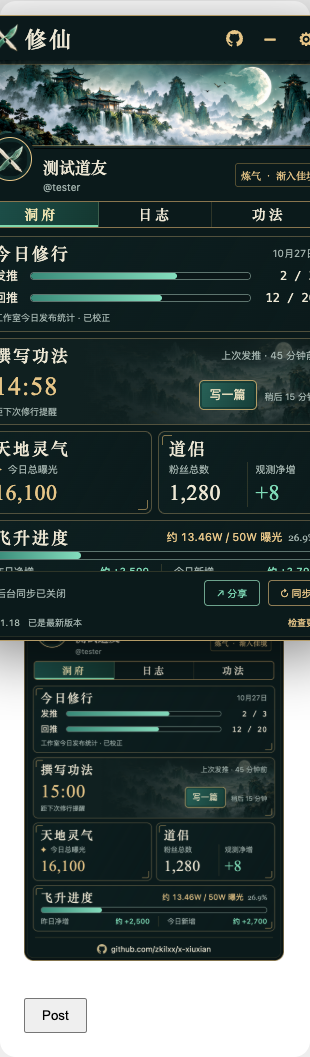
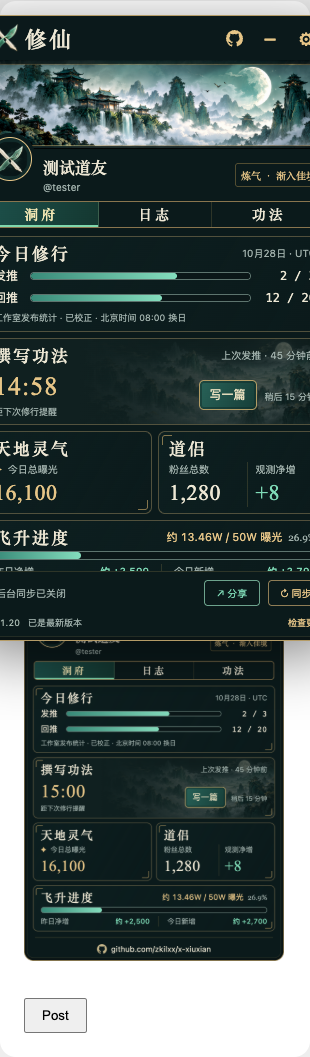
fix: recover blank panel frames and stale extension connections

diff --git a/extension/content-bundle.js b/extension/content-bundle.js
@@ -241,16 +241,54 @@ globalThis.XianFeedback={replyPlus};
 (() => {
   'use strict';
   if (document.getElementById('xian-extension-host')) return;
-  const channel=crypto.randomUUID();
-  let frameReady=false;
+  let channel=crypto.randomUUID();
+  const extensionOrigin=chrome.runtime.getURL('').replace(/\/$/,''),panelURL=chrome.runtime.getURL('panel.html');
+  let frameReady=false,shadow,fallback,fallbackTitle,fallbackDetail,reconnectButton,healthTimer,retryTimer,waiting,retries=0,failed=false,disconnected=false;
   let host, frame, profile=null, lastHandle='', latest=null, drag=null, pending=[], captureTimer, refreshTimer;
   let panelHeight=720;
   let position={x:Math.max(12,innerWidth-390),y:80,collapsed:false};
-  const ask=async message=>{const r=await chrome.runtime.sendMessage(message);if(!r?.ok)throw new Error(r?.error||'扩展连接已断开，请刷新 X 页面。');return r.data;};
-  const send=message=>frameReady&&frame?.contentWindow?.postMessage({source:'xian-parent-v1',channel,...message},chrome.runtime.getURL('').slice(0,-1));
-  const showError=e=>send({type:'error',error:e.message||String(e)});
+  const runtimeAlive=()=>{try{return !!chrome.runtime?.id;}catch{return false;}};
+  const ask=async message=>{try{if(!runtimeAlive())throw new Error('Extension context invalidated');const r=await chrome.runtime.sendMessage(message);if(!r?.ok)throw new Error(r?.error||'扩展连接已断开，请刷新 X 页面。');return r.data;}catch(error){if(!runtimeAlive()||/Extension context invalidated/i.test(error.message))disconnect();throw error;}};
+  const send=message=>frameReady&&frame?.contentWindow?.postMessage({source:'xian-parent-v1',channel,...message},extensionOrigin);
+  const showError=e=>{if(!disconnected)send({type:'error',error:e.message||String(e)});};
+  function connectionState(status,title,detail){
+    if(!host||!fallback)return;host.dataset.xianStatus=status;fallbackTitle.textContent=title;fallbackDetail.textContent=detail;fallback.hidden=false;if(frame)frame.style.visibility='hidden';
+    reconnectButton.textContent=position.collapsed?'𝕏':disconnected?'刷新 X 页面':'重新连接';reconnectButton.title=title+'：'+detail;
+  }
+  function disconnect(){
+    disconnected=true;frameReady=false;waiting=null;clearInterval(healthTimer);clearInterval(refreshTimer);clearTimeout(retryTimer);
+    connectionState('updated','扩展连接已断开','扩展可能已重载或更新，请刷新 X 页面以恢复。');
+  }
+  function syncFrame(){send({type:'collapsed',value:position.collapsed});if(latest)send({type:'state',data:latest});else send({type:'locked'});}
+  function probe(){
+    if(!frame||waiting||disconnected||failed)return;waiting={id:crypto.randomUUID(),at:Date.now()};
+    // The probe contains no account data; it can reach an empty frame after a failed navigation.
+    frame.contentWindow?.postMessage({source:'xian-parent-v1',channel,type:'ping',id:waiting.id},'*');
+  }
+  function recover(){
+    if(retryTimer||disconnected)return;frameReady=false;waiting=null;
+    if(++retries>3){failed=true;connectionState('failed','洞府暂时无法加载','自动重连未成功，可点击重新连接；数据仍保存在本机。');return;}
+    connectionState('reconnecting','正在重新连接洞府','面板加载中，修行数据不会被清空。');
+    retryTimer=setTimeout(()=>{retryTimer=null;connectPanel();},1000*2**(retries-1));
+  }
+  function connectPanel(){
+    if(!runtimeAlive()){disconnect();return;}frameReady=false;waiting=null;channel=crypto.randomUUID();
+    connectionState(retries?'reconnecting':'loading','正在加载洞府','正在确认面板连接…');
+    const old=frame;frame=document.createElement('iframe');const current=frame;
+    frame.title='X 修仙 · 创作者洞府';frame.allow='autoplay';frame.setAttribute('scrolling','no');
+    Object.assign(frame.style,{position:'absolute',inset:'0',width:'100%',height:'100%',border:'0',display:'block',colorScheme:'dark',background:'#0b1a1b',visibility:'hidden'});
+    frame.addEventListener('load',()=>{if(current!==frame||failed||disconnected)return;frameReady=false;waiting=null;connectionState('loading','正在加载洞府','正在确认面板连接…');probe();});
+    frame.addEventListener('error',()=>{if(current===frame)recover();});
+    frame.src=panelURL+'#'+channel;shadow.prepend(frame);old?.remove();probe();
+  }
+  function checkPanel(){
+    if(!runtimeAlive()){disconnect();return;}if(document.hidden||!host)return;
+    if(!host.isConnected&&document.body){document.body.append(host);connectPanel();return;}
+    if(failed||retryTimer)return;if(waiting){if(Date.now()-waiting.at>8000)recover();}else probe();
+  }
+  function startHealth(){clearInterval(healthTimer);if(!disconnected)healthTimer=setInterval(checkPanel,2000);}
   function clamp() {
-    if(!host)return;const w=position.collapsed?56:Math.min(372,innerWidth-20),h=position.collapsed?56:Math.min(panelHeight,innerHeight-24);
+    if(!host)return;if(fallback){fallback.dataset.collapsed=String(position.collapsed);reconnectButton.textContent=position.collapsed?'𝕏':disconnected?'刷新 X 页面':'重新连接';}const w=position.collapsed?56:Math.min(372,innerWidth-20),h=position.collapsed?56:Math.min(panelHeight,innerHeight-24);
     position.x=Math.max(10,Math.min(position.x,innerWidth-w-10));position.y=Math.max(10,Math.min(position.y,innerHeight-h-10));
     Object.assign(host.style,{left:position.x+'px',top:position.y+'px',width:w+'px',height:h+'px'});
     send({type:'collapsed',value:position.collapsed});
@@ -306,7 +344,8 @@ globalThis.XianFeedback={replyPlus};
     try{const data=await ask({type:'snapshot',handle:h});if(lastHandle===h){latest=data;send({type:'state',data});}}catch(e){showError(e);}
   }
   window.addEventListener('message',event=>{
-    const observerOrigin=event.origin===location.origin||event.origin===chrome.runtime.getURL('').replace(/\/$/,'')||event.origin==='null';
+    if(!runtimeAlive()){disconnect();return;}
+    const observerOrigin=event.origin===location.origin||event.origin===extensionOrigin||event.origin==='null';
     if(observerOrigin&&event.data?.source==='xian-studio-raw-v1'&&profile&&location.pathname.startsWith('/i/account_analytics')){ask({type:'studioRaw',handle:profile.handle,raw:event.data.raw}).then(data=>{latest=data;send({type:'state',data});}).catch(showError);return;}
     if(observerOrigin&&event.data?.source==='xian-studio-v1'&&profile&&location.pathname.startsWith('/i/account_analytics')){ask({type:'studio',handle:profile.handle,rows:event.data.rows}).then(data=>{latest=data;send({type:'state',data});}).catch(showError);return;}
     if(observerOrigin&&event.data?.source==='xian-created-v1'&&profile){const t=event.data.value;if(t?.author===profile.handle&&t.source==='published'){schedule({users:[],tweets:[t]});if(t.reply)globalThis.XianFeedback.replyPlus(t.id);}return;}
@@ -314,9 +353,13 @@ globalThis.XianFeedback={replyPlus};
     if(observerOrigin && event.data?.source==='xian-observer-v1'){
       if(profile&&event.data.payload&&Array.isArray(event.data.payload.tweets)&&Array.isArray(event.data.payload.users))schedule(event.data.payload);return;
     }
-    if(!frame||(event.source!==null&&event.source!==frame.contentWindow)||(![chrome.runtime.getURL('').replace(/\/$/,''),'null'].includes(event.origin))||event.data?.source!=='xian-panel-v1'||event.data.channel!==channel)return;
+    if(!frame||(event.source!==null&&event.source!==frame.contentWindow)||(![extensionOrigin,'null'].includes(event.origin))||event.data?.source!=='xian-panel-v1'||event.data.channel!==channel)return;
     const m=event.data;
-    if(m.type==='ready'){frameReady=true;send({type:'collapsed',value:position.collapsed});if(latest)send({type:'state',data:latest});else send({type:'locked'});return;}
+    if(m.type==='ready'){frameReady=true;syncFrame();probe();return;}
+    if(m.type==='pong'&&waiting?.id===m.id){
+      waiting=null;if(!m.painted){recover();return;}const needsSync=!frameReady;frameReady=true;retries=0;failed=false;clearTimeout(retryTimer);retryTimer=null;
+      host.dataset.xianStatus='ready';fallback.hidden=true;frame.style.visibility='visible';if(needsSync)syncFrame();return;
+    }
     if(m.type==='drag-start'){drag={x:position.x,y:position.y,screenX:m.screenX,screenY:m.screenY};return;}
     if(m.type==='drag-move'&&drag){position.x=drag.x+m.screenX-drag.screenX;position.y=drag.y+m.screenY-drag.screenY;clamp();return;}
     if(m.type==='drag-end'){drag=null;ask({type:'position',value:position}).catch(showError);return;}
@@ -336,16 +379,28 @@ globalThis.XianFeedback={replyPlus};
   async function mount(){
     if(!document.body)return setTimeout(mount,100);
     if(location.hash==='#xian-background'){await identify();let timer=setInterval(()=>{identify();readReward();readProfile();if(location.pathname.startsWith('/i/account_analytics')){if(profile)ask({type:'diagnostic',handle:profile.handle,value:{operation:'studio-page',shape:[document.readyState,document.title,'primary='+!!document.querySelector('[data-testid=primaryColumn]')],resources:performance.getEntriesByType('resource').map(e=>{try{const u=new URL(e.name);return ['https://x.com','https://api.x.com'].includes(u.origin)&&(/\/i\/api\//.test(u.pathname)||u.origin==='https://api.x.com')&&!/grok|jwt|token|chat|message/i.test(u.pathname)?u.pathname:null;}catch{return null;}}).filter(Boolean).slice(-30)}}).catch(()=>{});}},1500);setTimeout(()=>clearInterval(timer),65000);return;}
-    host=document.createElement('div');host.id='xian-extension-host';Object.assign(host.style,{position:'fixed',zIndex:'2147483600',colorScheme:'dark',border:'0',borderRadius:'15px',overflow:'hidden',boxShadow:'0 14px 60px #0007'});
-    const shadow=host.attachShadow({mode:'closed'});frame=document.createElement('iframe');frame.src=chrome.runtime.getURL('panel.html')+'#'+channel;frame.title='X 修仙 · 创作者洞府';frame.allow='autoplay';frame.setAttribute('scrolling','no');frame.addEventListener('load',()=>{frameReady=true;send({type:'collapsed',value:position.collapsed});if(latest)send({type:'state',data:latest});});Object.assign(frame.style,{width:'100%',height:'100%',border:'0',display:'block',colorScheme:'dark'});shadow.append(frame);document.body.append(host);
+    host=document.createElement('div');host.id='xian-extension-host';Object.assign(host.style,{position:'fixed',zIndex:'2147483600',colorScheme:'dark',border:'0',borderRadius:'15px',overflow:'hidden',background:'#0b1a1b',boxShadow:'0 14px 60px #0007'});
+    shadow=host.attachShadow({mode:'closed'});
+    const style=document.createElement('style');style.textContent=`#connection{position:absolute;inset:0;box-sizing:border-box;display:flex;flex-direction:column;justify-content:center;align-items:center;gap:14px;padding:24px;background:#0b1a1b;border:1px solid #b59c67;border-radius:14px;color:#ede7d4;font:12px/1.6 -apple-system,BlinkMacSystemFont,"PingFang SC",sans-serif;text-align:center}#connection[hidden]{display:none}.mark{font:38px Georgia,serif;color:#7fdbb7}.detail{color:#a0b0ab;margin:0}button{font:inherit;cursor:pointer;border:1px solid #89754e;border-radius:5px;background:#173e34;color:#e6c587;padding:6px 14px}#connection[data-collapsed="true"]{padding:0;gap:0}#connection[data-collapsed="true"] .copy{display:none}#connection[data-collapsed="true"] button{width:54px;height:54px;border:0;border-radius:13px;padding:0;color:#7fdbb7;font:30px Georgia,serif}`;shadow.append(style);
+    fallback=document.createElement('div');fallback.id='connection';fallback.setAttribute('role','status');fallback.dataset.collapsed=String(position.collapsed);
+    const mark=document.createElement('span');mark.className='mark copy';mark.textContent='𝕏';fallbackTitle=document.createElement('strong');fallbackTitle.className='copy';fallbackDetail=document.createElement('p');fallbackDetail.className='detail copy';
+    reconnectButton=document.createElement('button');reconnectButton.type='button';reconnectButton.setAttribute('aria-label','恢复 X 修仙面板');reconnectButton.onclick=()=>{if(disconnected||!runtimeAlive()){location.reload();return;}retries=0;failed=false;clearTimeout(retryTimer);retryTimer=null;connectPanel();};
+    fallback.append(mark,fallbackTitle,fallbackDetail,reconnectButton);shadow.append(fallback);document.body.append(host);clamp();connectPanel();startHealth();
     try{position={...position,...await ask({type:'getPosition'})};}catch(e){showError(e);}clamp();await identify();if(profile&&latest?.settings.autoReward)ask({type:'scanStudio',handle:profile.handle}).catch(()=>{});
     // A light observer catches SPA account changes; a timer ensures midnight resets even on an idle page.
     let debounce;new MutationObserver(()=>{clearTimeout(debounce);debounce=setTimeout(()=>{identify();readReward();},400);}).observe(document.body,{subtree:true,childList:true});
+    startRefresh();
+  }
+  function startRefresh(){
+    clearInterval(refreshTimer);if(disconnected)return;
     refreshTimer=setInterval(()=>{identify().then(refresh);readReward();readProfile();if(profile)ask({type:'diagnostic',handle:profile.handle,value:{resources:performance.getEntriesByType('resource').map(e=>{try{const u=new URL(e.name);return u.origin===location.origin&&u.pathname.includes('/i/api/')?u.pathname.split('/').pop():null;}catch{return null;}}).filter(Boolean).slice(-15)}}).catch(()=>{});if(profile&&latest?.settings.autoReward&&(!latest.reward||Date.now()-latest.reward.at>300000))ask({type:'scanStudio',handle:profile.handle}).catch(()=>{});},15000);
   }
   chrome.storage.onChanged.addListener((changes,area)=>{if(area==='local'&&profile&&changes['account:'+profile.handle])refresh();});
   chrome.runtime.onMessage.addListener(m=>{if(m.type==='resize'){panelHeight=Math.max(300,Math.min(720,Math.ceil(Number(m.height)||720)));clamp();return;}
     if(m.type==='attention'){if(position.collapsed){position.collapsed=false;clamp();}return;}
     if(m.type==='toggle'){position.collapsed=!position.collapsed;clamp();ask({type:'position',value:position}).catch(showError);}});
-  addEventListener('resize',clamp);addEventListener('pagehide',()=>{clearInterval(refreshTimer);clearTimeout(captureTimer);});mount();
+  addEventListener('resize',clamp);
+  addEventListener('pagehide',()=>{clearInterval(refreshTimer);clearInterval(healthTimer);clearTimeout(captureTimer);});
+  addEventListener('pageshow',e=>{if(e.persisted&&host){waiting=null;startRefresh();startHealth();checkPanel();refresh();}});
+  document.addEventListener('visibilitychange',()=>{if(!document.hidden&&host){waiting=null;checkPanel();refresh();}});mount();
 })();

diff --git a/extension/content.js b/extension/content.js
@@ -1,16 +1,54 @@
 (() => {
   'use strict';
   if (document.getElementById('xian-extension-host')) return;
-  const channel=crypto.randomUUID();
-  let frameReady=false;
+  let channel=crypto.randomUUID();
+  const extensionOrigin=chrome.runtime.getURL('').replace(/\/$/,''),panelURL=chrome.runtime.getURL('panel.html');
+  let frameReady=false,shadow,fallback,fallbackTitle,fallbackDetail,reconnectButton,healthTimer,retryTimer,waiting,retries=0,failed=false,disconnected=false;
   let host, frame, profile=null, lastHandle='', latest=null, drag=null, pending=[], captureTimer, refreshTimer;
   let panelHeight=720;
   let position={x:Math.max(12,innerWidth-390),y:80,collapsed:false};
-  const ask=async message=>{const r=await chrome.runtime.sendMessage(message);if(!r?.ok)throw new Error(r?.error||'扩展连接已断开，请刷新 X 页面。');return r.data;};
-  const send=message=>frameReady&&frame?.contentWindow?.postMessage({source:'xian-parent-v1',channel,...message},chrome.runtime.getURL('').slice(0,-1));
-  const showError=e=>send({type:'error',error:e.message||String(e)});
+  const runtimeAlive=()=>{try{return !!chrome.runtime?.id;}catch{return false;}};
+  const ask=async message=>{try{if(!runtimeAlive())throw new Error('Extension context invalidated');const r=await chrome.runtime.sendMessage(message);if(!r?.ok)throw new Error(r?.error||'扩展连接已断开，请刷新 X 页面。');return r.data;}catch(error){if(!runtimeAlive()||/Extension context invalidated/i.test(error.message))disconnect();throw error;}};
+  const send=message=>frameReady&&frame?.contentWindow?.postMessage({source:'xian-parent-v1',channel,...message},extensionOrigin);
+  const showError=e=>{if(!disconnected)send({type:'error',error:e.message||String(e)});};
+  function connectionState(status,title,detail){
+    if(!host||!fallback)return;host.dataset.xianStatus=status;fallbackTitle.textContent=title;fallbackDetail.textContent=detail;fallback.hidden=false;if(frame)frame.style.visibility='hidden';
+    reconnectButton.textContent=position.collapsed?'𝕏':disconnected?'刷新 X 页面':'重新连接';reconnectButton.title=title+'：'+detail;
+  }
+  function disconnect(){
+    disconnected=true;frameReady=false;waiting=null;clearInterval(healthTimer);clearInterval(refreshTimer);clearTimeout(retryTimer);
+    connectionState('updated','扩展连接已断开','扩展可能已重载或更新，请刷新 X 页面以恢复。');
+  }
+  function syncFrame(){send({type:'collapsed',value:position.collapsed});if(latest)send({type:'state',data:latest});else send({type:'locked'});}
+  function probe(){
+    if(!frame||waiting||disconnected||failed)return;waiting={id:crypto.randomUUID(),at:Date.now()};
+    // The probe contains no account data; it can reach an empty frame after a failed navigation.
+    frame.contentWindow?.postMessage({source:'xian-parent-v1',channel,type:'ping',id:waiting.id},'*');
+  }
+  function recover(){
+    if(retryTimer||disconnected)return;frameReady=false;waiting=null;
+    if(++retries>3){failed=true;connectionState('failed','洞府暂时无法加载','自动重连未成功，可点击重新连接；数据仍保存在本机。');return;}
+    connectionState('reconnecting','正在重新连接洞府','面板加载中，修行数据不会被清空。');
+    retryTimer=setTimeout(()=>{retryTimer=null;connectPanel();},1000*2**(retries-1));
+  }
+  function connectPanel(){
+    if(!runtimeAlive()){disconnect();return;}frameReady=false;waiting=null;channel=crypto.randomUUID();
+    connectionState(retries?'reconnecting':'loading','正在加载洞府','正在确认面板连接…');
+    const old=frame;frame=document.createElement('iframe');const current=frame;
+    frame.title='X 修仙 · 创作者洞府';frame.allow='autoplay';frame.setAttribute('scrolling','no');
+    Object.assign(frame.style,{position:'absolute',inset:'0',width:'100%',height:'100%',border:'0',display:'block',colorScheme:'dark',background:'#0b1a1b',visibility:'hidden'});
+    frame.addEventListener('load',()=>{if(current!==frame||failed||disconnected)return;frameReady=false;waiting=null;connectionState('loading','正在加载洞府','正在确认面板连接…');probe();});
+    frame.addEventListener('error',()=>{if(current===frame)recover();});
+    frame.src=panelURL+'#'+channel;shadow.prepend(frame);old?.remove();probe();
+  }
+  function checkPanel(){
+    if(!runtimeAlive()){disconnect();return;}if(document.hidden||!host)return;
+    if(!host.isConnected&&document.body){document.body.append(host);connectPanel();return;}
+    if(failed||retryTimer)return;if(waiting){if(Date.now()-waiting.at>8000)recover();}else probe();
+  }
+  function startHealth(){clearInterval(healthTimer);if(!disconnected)healthTimer=setInterval(checkPanel,2000);}
   function clamp() {
-    if(!host)return;const w=position.collapsed?56:Math.min(372,innerWidth-20),h=position.collapsed?56:Math.min(panelHeight,innerHeight-24);
+    if(!host)return;if(fallback){fallback.dataset.collapsed=String(position.collapsed);reconnectButton.textContent=position.collapsed?'𝕏':disconnected?'刷新 X 页面':'重新连接';}const w=position.collapsed?56:Math.min(372,innerWidth-20),h=position.collapsed?56:Math.min(panelHeight,innerHeight-24);
     position.x=Math.max(10,Math.min(position.x,innerWidth-w-10));position.y=Math.max(10,Math.min(position.y,innerHeight-h-10));
     Object.assign(host.style,{left:position.x+'px',top:position.y+'px',width:w+'px',height:h+'px'});
     send({type:'collapsed',value:position.collapsed});
@@ -66,7 +104,8 @@
     try{const data=await ask({type:'snapshot',handle:h});if(lastHandle===h){latest=data;send({type:'state',data});}}catch(e){showError(e);}
   }
   window.addEventListener('message',event=>{
-    const observerOrigin=event.origin===location.origin||event.origin===chrome.runtime.getURL('').replace(/\/$/,'')||event.origin==='null';
+    if(!runtimeAlive()){disconnect();return;}
+    const observerOrigin=event.origin===location.origin||event.origin===extensionOrigin||event.origin==='null';
     if(observerOrigin&&event.data?.source==='xian-studio-raw-v1'&&profile&&location.pathname.startsWith('/i/account_analytics')){ask({type:'studioRaw',handle:profile.handle,raw:event.data.raw}).then(data=>{latest=data;send({type:'state',data});}).catch(showError);return;}
     if(observerOrigin&&event.data?.source==='xian-studio-v1'&&profile&&location.pathname.startsWith('/i/account_analytics')){ask({type:'studio',handle:profile.handle,rows:event.data.rows}).then(data=>{latest=data;send({type:'state',data});}).catch(showError);return;}
     if(observerOrigin&&event.data?.source==='xian-created-v1'&&profile){const t=event.data.value;if(t?.author===profile.handle&&t.source==='published'){schedule({users:[],tweets:[t]});if(t.reply)globalThis.XianFeedback.replyPlus(t.id);}return;}
@@ -74,9 +113,13 @@
     if(observerOrigin && event.data?.source==='xian-observer-v1'){
       if(profile&&event.data.payload&&Array.isArray(event.data.payload.tweets)&&Array.isArray(event.data.payload.users))schedule(event.data.payload);return;
     }
-    if(!frame||(event.source!==null&&event.source!==frame.contentWindow)||(![chrome.runtime.getURL('').replace(/\/$/,''),'null'].includes(event.origin))||event.data?.source!=='xian-panel-v1'||event.data.channel!==channel)return;
+    if(!frame||(event.source!==null&&event.source!==frame.contentWindow)||(![extensionOrigin,'null'].includes(event.origin))||event.data?.source!=='xian-panel-v1'||event.data.channel!==channel)return;
     const m=event.data;
-    if(m.type==='ready'){frameReady=true;send({type:'collapsed',value:position.collapsed});if(latest)send({type:'state',data:latest});else send({type:'locked'});return;}
+    if(m.type==='ready'){frameReady=true;syncFrame();probe();return;}
+    if(m.type==='pong'&&waiting?.id===m.id){
+      waiting=null;if(!m.painted){recover();return;}const needsSync=!frameReady;frameReady=true;retries=0;failed=false;clearTimeout(retryTimer);retryTimer=null;
+      host.dataset.xianStatus='ready';fallback.hidden=true;frame.style.visibility='visible';if(needsSync)syncFrame();return;
+    }
     if(m.type==='drag-start'){drag={x:position.x,y:position.y,screenX:m.screenX,screenY:m.screenY};return;}
     if(m.type==='drag-move'&&drag){position.x=drag.x+m.screenX-drag.screenX;position.y=drag.y+m.screenY-drag.screenY;clamp();return;}
     if(m.type==='drag-end'){drag=null;ask({type:'position',value:position}).catch(showError);return;}
@@ -96,16 +139,28 @@
   async function mount(){
     if(!document.body)return setTimeout(mount,100);
     if(location.hash==='#xian-background'){await identify();let timer=setInterval(()=>{identify();readReward();readProfile();if(location.pathname.startsWith('/i/account_analytics')){if(profile)ask({type:'diagnostic',handle:profile.handle,value:{operation:'studio-page',shape:[document.readyState,document.title,'primary='+!!document.querySelector('[data-testid=primaryColumn]')],resources:performance.getEntriesByType('resource').map(e=>{try{const u=new URL(e.name);return ['https://x.com','https://api.x.com'].includes(u.origin)&&(/\/i\/api\//.test(u.pathname)||u.origin==='https://api.x.com')&&!/grok|jwt|token|chat|message/i.test(u.pathname)?u.pathname:null;}catch{return null;}}).filter(Boolean).slice(-30)}}).catch(()=>{});}},1500);setTimeout(()=>clearInterval(timer),65000);return;}
-    host=document.createElement('div');host.id='xian-extension-host';Object.assign(host.style,{position:'fixed',zIndex:'2147483600',colorScheme:'dark',border:'0',borderRadius:'15px',overflow:'hidden',boxShadow:'0 14px 60px #0007'});
-    const shadow=host.attachShadow({mode:'closed'});frame=document.createElement('iframe');frame.src=chrome.runtime.getURL('panel.html')+'#'+channel;frame.title='X 修仙 · 创作者洞府';frame.allow='autoplay';frame.setAttribute('scrolling','no');frame.addEventListener('load',()=>{frameReady=true;send({type:'collapsed',value:position.collapsed});if(latest)send({type:'state',data:latest});});Object.assign(frame.style,{width:'100%',height:'100%',border:'0',display:'block',colorScheme:'dark'});shadow.append(frame);document.body.append(host);
+    host=document.createElement('div');host.id='xian-extension-host';Object.assign(host.style,{position:'fixed',zIndex:'2147483600',colorScheme:'dark',border:'0',borderRadius:'15px',overflow:'hidden',background:'#0b1a1b',boxShadow:'0 14px 60px #0007'});
+    shadow=host.attachShadow({mode:'closed'});
+    const style=document.createElement('style');style.textContent=`#connection{position:absolute;inset:0;box-sizing:border-box;display:flex;flex-direction:column;justify-content:center;align-items:center;gap:14px;padding:24px;background:#0b1a1b;border:1px solid #b59c67;border-radius:14px;color:#ede7d4;font:12px/1.6 -apple-system,BlinkMacSystemFont,"PingFang SC",sans-serif;text-align:center}#connection[hidden]{display:none}.mark{font:38px Georgia,serif;color:#7fdbb7}.detail{color:#a0b0ab;margin:0}button{font:inherit;cursor:pointer;border:1px solid #89754e;border-radius:5px;background:#173e34;color:#e6c587;padding:6px 14px}#connection[data-collapsed="true"]{padding:0;gap:0}#connection[data-collapsed="true"] .copy{display:none}#connection[data-collapsed="true"] button{width:54px;height:54px;border:0;border-radius:13px;padding:0;color:#7fdbb7;font:30px Georgia,serif}`;shadow.append(style);
+    fallback=document.createElement('div');fallback.id='connection';fallback.setAttribute('role','status');fallback.dataset.collapsed=String(position.collapsed);
+    const mark=document.createElement('span');mark.className='mark copy';mark.textContent='𝕏';fallbackTitle=document.createElement('strong');fallbackTitle.className='copy';fallbackDetail=document.createElement('p');fallbackDetail.className='detail copy';
+    reconnectButton=document.createElement('button');reconnectButton.type='button';reconnectButton.setAttribute('aria-label','恢复 X 修仙面板');reconnectButton.onclick=()=>{if(disconnected||!runtimeAlive()){location.reload();return;}retries=0;failed=false;clearTimeout(retryTimer);retryTimer=null;connectPanel();};
+    fallback.append(mark,fallbackTitle,fallbackDetail,reconnectButton);shadow.append(fallback);document.body.append(host);clamp();connectPanel();startHealth();
     try{position={...position,...await ask({type:'getPosition'})};}catch(e){showError(e);}clamp();await identify();if(profile&&latest?.settings.autoReward)ask({type:'scanStudio',handle:profile.handle}).catch(()=>{});
     // A light observer catches SPA account changes; a timer ensures midnight resets even on an idle page.
     let debounce;new MutationObserver(()=>{clearTimeout(debounce);debounce=setTimeout(()=>{identify();readReward();},400);}).observe(document.body,{subtree:true,childList:true});
+    startRefresh();
+  }
+  function startRefresh(){
+    clearInterval(refreshTimer);if(disconnected)return;
     refreshTimer=setInterval(()=>{identify().then(refresh);readReward();readProfile();if(profile)ask({type:'diagnostic',handle:profile.handle,value:{resources:performance.getEntriesByType('resource').map(e=>{try{const u=new URL(e.name);return u.origin===location.origin&&u.pathname.includes('/i/api/')?u.pathname.split('/').pop():null;}catch{return null;}}).filter(Boolean).slice(-15)}}).catch(()=>{});if(profile&&latest?.settings.autoReward&&(!latest.reward||Date.now()-latest.reward.at>300000))ask({type:'scanStudio',handle:profile.handle}).catch(()=>{});},15000);
   }
   chrome.storage.onChanged.addListener((changes,area)=>{if(area==='local'&&profile&&changes['account:'+profile.handle])refresh();});
   chrome.runtime.onMessage.addListener(m=>{if(m.type==='resize'){panelHeight=Math.max(300,Math.min(720,Math.ceil(Number(m.height)||720)));clamp();return;}
     if(m.type==='attention'){if(position.collapsed){position.collapsed=false;clamp();}return;}
     if(m.type==='toggle'){position.collapsed=!position.collapsed;clamp();ask({type:'position',value:position}).catch(showError);}});
-  addEventListener('resize',clamp);addEventListener('pagehide',()=>{clearInterval(refreshTimer);clearTimeout(captureTimer);});mount();
+  addEventListener('resize',clamp);
+  addEventListener('pagehide',()=>{clearInterval(refreshTimer);clearInterval(healthTimer);clearTimeout(captureTimer);});
+  addEventListener('pageshow',e=>{if(e.persisted&&host){waiting=null;startRefresh();startHealth();checkPanel();refresh();}});
+  document.addEventListener('visibilitychange',()=>{if(!document.hidden&&host){waiting=null;checkPanel();refresh();}});mount();
 })();

diff --git a/extension/panel.html b/extension/panel.html
@@ -20,5 +20,5 @@
 <section id="history" class="view" hidden><div class="heading"><h2>修行日志</h2><button id="export" class="text-button">导出 JSON</button></div><label class="date-filter">查看日期<input id="history-date" type="date"></label><p class="hint">从启用之日起存档 · 无记录日期不会补零</p><div id="history-list" class="history-list"></div><p class="hint">发布和曝光沿用工作室日期；粉丝与飞升净增按本地记录日保存。工作室返回的历史统计可补齐，未返回的时段保留空白。</p></section>
 <section id="settings" class="view" hidden><h2>自定功法</h2><p class="hint">每个账号独立保存，修改后立即生效。</p><form id="settings-form"><label>每日发推目标<input name="posts" type="number" min="1" max="1000" required></label><label>每日回推目标<input name="replies" type="number" min="1" max="10000" required></label><label>发推间隔提醒（分钟）<input name="reminderMinutes" type="number" min="1" max="1440" required></label><label class="check"><input name="reminderEnabled" type="checkbox">开启浏览器修行提醒</label><label class="check"><input name="autoReward" type="checkbox">后台静默同步数据（每 5 分钟）</label><p id="timezone" class="hint">日界线：Asia/Shanghai</p><button class="jade-button" type="submit">保存功法</button></form><div class="setting-note"><p id="followers-hint" class="hint">粉丝净增从今日首次读取开始计算</p><details><summary>查看数据口径</summary><p>发推和回推按工作室日期（UTC）对账；发推为原创与引用发布量之和，回推为自己的回复发布量。发布成功即时记数，每 5 分钟与曝光、粉丝和奖励一起后台同步，用工作室总数校正并补齐其他设备的发布；失败和取消不计。新发布遇到工作室延迟时暂时保留，避免数字立刻回退。天地灵气读取工作室 Account overview 中当天的 Impressions 总曝光，包含认证与未认证用户；工作室没有提供可靠的主推 / 回复曝光拆分，因此只显示总曝光。日期沿用工作室图表的 UTC 日桶，每 5 分钟同步，未读取时保留空白。粉丝净增为今日首次观测后的净变化，无法区分新增和取关。飞升直接读取 X 原创内容奖励页面的近 90 天进度，按最新值减前日最后记录计算每日净增；90 天滚动值含旧曝光到期扣减。页面缩写数值只可计算约数，不代表实际新产生的全部合格曝光。</p><p>发布成功时在后台记录；每 5 分钟由 Chrome 静默读取工作室、奖励页和粉丝资料，临时后台标签不会激活，完成后自动关闭；发推和回复以 X 发布成功的返回记录为准；同一帖子 ID 不重复累加。浏览器运行且 X 登录态有效时可后台同步；已设提醒可由浏览器发出，浏览器关闭时可能延迟。</p></details><h3>飞升规则</h3><p>每日目标是个人计划。X 官方入门门槛包括近 90 天 50 万认证用户主页曝光、500 位认证粉丝；回复曝光不计入。达到这两项也不代表获得收益资格。</p><a href="https://help.x.com/en/using-x/original-content-rewards" target="_blank" rel="noopener">X 官方原创内容奖励说明 ↗</a></div></section>
 <section id="reward" class="view" hidden><h2>记录飞升进境</h2><p class="hint">自动读取失败时，可用官方页面显示的进度校准。手动校准也会触发每日差值记录。</p><form id="reward-form"><label>近 90 天认证用户主页曝光<input name="qualified90d" type="number" min="0" step="1" required></label><label>认证粉丝数量<input name="verifiedFollowers" type="number" min="0" step="1"></label><button class="jade-button" type="submit">保存今日进境</button></form><p class="hint">例如官方显示 133.3K，自动读取会记录为约 133,300，并保存原始显示精度。普通浏览量和全部粉丝总数不可混填。</p></section>
-</main><div id="reminder-alert" class="reminder-alert" role="alertdialog" aria-modal="true" aria-labelledby="reminder-title" hidden><span class="reminder-symbol" aria-hidden="true">✦</span><h2 id="reminder-title">该撰写功法了</h2><p id="reminder-message">修行时间已到，写下你的新想法。</p><a id="reminder-write" class="jade-button" href="https://x.com/compose/post" target="_blank" rel="noopener">去撰写</a><button id="reminder-snooze" class="jade-button">15 分钟后提醒</button><button id="reminder-dismiss" class="text-button">知道了</button></div><footer><span><i id="status-dot"></i><span id="synced">等待账号确认</span></span><div class="footer-actions" role="group" aria-label="洞府操作"><button id="share" type="button" aria-label="分享修行记录到 X" title="将文字数据和面板图片放入 X 编辑栏，由你确认发布" disabled>↗ 分享</button><button id="sync" aria-label="立即同步全部数据">↻ 同步</button></div></footer><div id="update-bar" class="update-bar" aria-label="插件版本与更新"><span id="installed-version">v0.1.19</span><span id="update-status" role="status" aria-live="polite">自动检测更新</span><a id="update-download" target="_blank" rel="noopener noreferrer" hidden>下载新版 ↗</a><button id="update-check" class="text-button" type="button">检查更新</button></div>
+</main><div id="reminder-alert" class="reminder-alert" role="alertdialog" aria-modal="true" aria-labelledby="reminder-title" hidden><span class="reminder-symbol" aria-hidden="true">✦</span><h2 id="reminder-title">该撰写功法了</h2><p id="reminder-message">修行时间已到，写下你的新想法。</p><a id="reminder-write" class="jade-button" href="https://x.com/compose/post" target="_blank" rel="noopener">去撰写</a><button id="reminder-snooze" class="jade-button">15 分钟后提醒</button><button id="reminder-dismiss" class="text-button">知道了</button></div><footer><span><i id="status-dot"></i><span id="synced">等待账号确认</span></span><div class="footer-actions" role="group" aria-label="洞府操作"><button id="share" type="button" aria-label="分享修行记录到 X" title="将文字数据和面板图片放入 X 编辑栏，由你确认发布" disabled>↗ 分享</button><button id="sync" aria-label="立即同步全部数据">↻ 同步</button></div></footer><div id="update-bar" class="update-bar" aria-label="插件版本与更新"><span id="installed-version">v0.1.20</span><span id="update-status" role="status" aria-live="polite">自动检测更新</span><a id="update-download" target="_blank" rel="noopener noreferrer" hidden>下载新版 ↗</a><button id="update-check" class="text-button" type="button">检查更新</button></div>
 </div><script src="core.js"></script><script src="share.js"></script><script src="panel.js"></script></body></html>

diff --git a/extension/panel.js b/extension/panel.js
@@ -15,7 +15,7 @@
     $(id).title=delta==null?`${date||''} 没有飞升进度记录`.trim():track.partial?`${date} 首次观测后净增，非完整全天`:`${date} 最新进度减前一天末次进度（滚动净变化）`;
   }
   let checkingUpdate=false,updateRequested=false;
-  const installedVersion=globalThis.chrome?.runtime?.getManifest?.().version||'0.1.19';
+  const installedVersion=globalThis.chrome?.runtime?.getManifest?.().version||'0.1.20';
   text('installed-version','v'+installedVersion);
   async function checkUpdates(force=false){
     if(checkingUpdate)return;
@@ -106,6 +106,10 @@
   addEventListener('message',e=>{
     if((e.source!==null&&e.source!==parent)||e.data?.source!=='xian-parent-v1'||(channel?e.data.channel!==channel:false)||!(/^https:\/\/(x|twitter)\.com$/.test(e.origin)||/^http:\/\/(localhost|127\.0\.0\.1):\d+$/.test(e.origin)||(channel&&(e.origin==='null'||e.origin===location.origin))))return;
     parentOrigin=e.origin==='null'?null:e.origin;const m=e.data;
+    if(m.type==='ping'){
+      const surface=$('shell').hidden?$('orb'):$('shell');const css=document.querySelector('link[href="panel.css"]');
+      tell({type:'pong',id:m.id,painted:!!css?.sheet&&surface.getClientRects().length>0&&getComputedStyle(surface).backgroundColor!=='rgba(0, 0, 0, 0)'});return;
+    }
     if(m.type==='state')render(m.data);
     else if(m.type==='collapsed'){const wasHidden=$('shell').hidden;$('shell').hidden=m.value;$('orb').hidden=!m.value;if(wasHidden&&!m.value){lastFitHeight=0;fitPanel();checkUpdates();}else if(!m.value&&!updateRequested)checkUpdates();}
     else if(m.type==='locked'){state=null;text('name','静候道友');text('handle','等待 X 登录账号');$('locked').hidden=false;$('avatar').hidden=true;$('avatar').removeAttribute('src');$('avatar-fallback').hidden=false;for(const id of ['total-views','followers','follower-delta'])text(id,'—');text('posts','—');text('replies','—');setProgress('posts-progress',0,3);setProgress('replies-progress',0,20);text('daily-qualified','待读取');text('qualified90','— / 50W 曝光');rewardDelta('reward-yesterday',null);rewardDelta('reward-today',null);text('reward-percent','待读取');$('status-dot').classList.remove('active');text('verified-followers','— / 500');setProgress('reward-progress',0,500000);text('synced','等待账号确认');$('history-list').replaceChildren();select('home');for(const id of ['sync','share','reward-edit','snooze','scan-reward'])if($(id))$(id).disabled=true;timer();}
@@ -125,7 +129,7 @@
   $('reminder-write').onclick=()=>{if(state)state.reminder={...state.reminder,acknowledgedPost:state.lastPost};tell({type:'dismissReminder'});reminderVisible(false,null,0);};
   $('settings-form').onsubmit=e=>{e.preventDefault();if(!state)return notice('请先登录 X 并确认账号。',true);const f=new FormData(e.currentTarget),value={...state.settings};for(const k of ['posts','replies','reminderMinutes','dailyQualifiedGoal'])if(f.has(k))value[k]=Number(f.get(k));value.reminderEnabled=e.currentTarget.elements.reminderEnabled.checked;value.autoReward=e.currentTarget.elements.autoReward.checked;tell({type:'settings',value});};
   $('reward-form').onsubmit=e=>{e.preventDefault();if(!state)return;const f=new FormData(e.currentTarget);const value=Object.fromEntries(['qualified90d','verifiedFollowers'].map(k=>[k,f.get(k)===''?null:Number(f.get(k))]));tell({type:'reward',value});select('home');};
-  $('export').onclick=()=>{if(!state)return;const blob=new Blob([JSON.stringify({app:'X 修仙',version:'0.1.19',exportedAt:new Date().toISOString(),...state},null,2)],{type:'application/json'});const url=URL.createObjectURL(blob);const a=document.createElement('a');a.href=url;a.download=`X修仙-${state.profile.handle}-${state.today.date}.json`;a.click();setTimeout(()=>URL.revokeObjectURL(url),3000);};
+  $('export').onclick=()=>{if(!state)return;const blob=new Blob([JSON.stringify({app:'X 修仙',version:'0.1.20',exportedAt:new Date().toISOString(),...state},null,2)],{type:'application/json'});const url=URL.createObjectURL(blob);const a=document.createElement('a');a.href=url;a.download=`X修仙-${state.profile.handle}-${state.today.date}.json`;a.click();setTimeout(()=>URL.revokeObjectURL(url),3000);};
   function draggable(element,isOrb=false){let start=null,moved=false;element.addEventListener('pointerdown',e=>{if(e.target.closest('button,a')&&!isOrb)return;if(e.button!==0)return;start={x:e.screenX,y:e.screenY};moved=false;element.setPointerCapture(e.pointerId);tell({type:'drag-start',screenX:e.screenX,screenY:e.screenY});});element.addEventListener('pointermove',e=>{if(!start)return;if(Math.abs(e.screenX-start.x)+Math.abs(e.screenY-start.y)>4)moved=true;tell({type:'drag-move',screenX:e.screenX,screenY:e.screenY});});const end=()=>{if(!start)return;start=null;tell({type:'drag-end'});};element.addEventListener('pointerup',()=>{end();if(isOrb&&!moved)tell({type:'toggle'});});element.addEventListener('pointercancel',end);element.addEventListener('lostpointercapture',end);element.addEventListener('keydown',e=>{const d={ArrowLeft:[-10,0],ArrowRight:[10,0],ArrowUp:[0,-10],ArrowDown:[0,10]}[e.key];if(d){e.preventDefault();tell({type:'move-key',dx:d[0],dy:d[1]});}else if(isOrb&&(e.key==='Enter'||e.key===' ')){e.preventDefault();tell({type:'toggle'});}});}
   draggable($('drag'));draggable($('orb'),true);$('avatar').onerror=()=>{$('avatar').hidden=true;$('avatar-fallback').hidden=false;};
   setInterval(timer,1000);setInterval(()=>{if(!document.hidden&&!$('shell').hidden)checkUpdates();},60*60*1000);

diff --git a/README.en.md b/README.en.md
@@ -5,7 +5,7 @@
   <h1>X Xiuxian · Creator Retreat</h1>
   <p>A movable cultivation-inspired dashboard for your daily writing and X creator stats.</p>
   <p>
-    <img src="https://img.shields.io/badge/version-0.1.19-173e34" alt="Version 0.1.19">
+    <img src="https://img.shields.io/badge/version-0.1.20-173e34" alt="Version 0.1.20">
     <img src="https://img.shields.io/badge/Chrome-116%2B-4285F4?logo=googlechrome&logoColor=white" alt="Chrome 116+">
     <img src="https://img.shields.io/badge/Manifest-V3-6d7772" alt="Manifest V3">
     <img src="https://img.shields.io/badge/Data-Local_storage-173e34" alt="Local data storage">
@@ -56,7 +56,7 @@ The panoramic landscape preserves the full composition, with the avatar overlapp
 
 Install as an unpacked Chrome extension. It is not currently listed in the Chrome Web Store.
 
-1. Open [Releases](https://github.com/zkilxx/x-xiuxian/releases/latest), download **`x-xiuxian-v0.1.19.zip`** and extract it.
+1. Open [Releases](https://github.com/zkilxx/x-xiuxian/releases/latest), download **`x-xiuxian-v0.1.20.zip`** and extract it.
 2. Open `chrome://extensions` and turn on **Developer mode**.
 3. Click **Load unpacked** and select the extracted **X修仙** folder containing `manifest.json`.
 4. Sign in to [X](https://x.com) and refresh the page to display the floating panel.
@@ -165,6 +165,10 @@ There is no custom backend, telemetry or third-party AI request. Only clicking *
 
 Personal verification records, account screenshots and earlier design candidates remain local and are not included in the source repository or package.
 
+## Panel recovery
+
+The host confirms that panel scripts and styles are ready, then checks liveness periodically. An empty frame or missing stylesheet shows a matching recovery view and triggers up to three consecutive retries, followed by a manual reconnect action. Position, collapse state and account records are retained. An extension reload or update displays an explicit page-refresh action rather than automatically interrupting a draft.
+
 ## Limitations
 
 - Built for desktop Chrome 116 or later; the current interface is Chinese.
@@ -183,7 +187,7 @@ Core development requires Node.js 20+ and Python 3. The extension uses plain Jav
 npm test                # Data, publishing events and background flow tests
 npm run check           # Rebuild; verify scripts, manifest and assets
 npm run preview         # http://127.0.0.1:4178/demo.html
-npm run package         # release/x-xiuxian-v0.1.19.zip
+npm run package         # release/x-xiuxian-v0.1.20.zip
 ```
 
 All **47 regression tests pass**. Coverage includes account isolation, deduplication, successful and failed publishing, UTC boundaries, impression backfill, publishing reconciliation, lag protection, downward corrections, reward deltas, follower changes, background jobs, reminders, share summaries and source validation. Tests use simulated responses; they do not establish live compatibility after every X update.
@@ -196,6 +200,7 @@ npx playwright install chromium
 npm run docs:screenshots
 npm run test:ui          # Real extension, isolated profile, mocked X / GitHub responses
 npm run test:share       # Real extension, mocked composer: text, PNG, draft guards, no posting
+npm run test:panel       # Empty-frame and CSS recovery, retry limits, resume and extension reload
 ```
 
 Playwright is a development dependency for screenshots and UI checks, not an extension runtime dependency. The real-extension flow covers the repository link, automatic and manual checks, available updates, offline errors, caching, collapse/expand and a compact viewport. The screenshot script does not read your existing Chrome profile or automatically delete local files.

diff --git a/README.md b/README.md
@@ -5,7 +5,7 @@
   <h1>X 修仙 · 创作者洞府</h1>
   <p>在 X 页面里，把每日创作、交流与数据增长，收进一座修仙洞府。</p>
   <p>
-    <img src="https://img.shields.io/badge/version-0.1.19-173e34" alt="Version 0.1.19">
+    <img src="https://img.shields.io/badge/version-0.1.20-173e34" alt="Version 0.1.20">
     <img src="https://img.shields.io/badge/Chrome-116%2B-4285F4?logo=googlechrome&logoColor=white" alt="Chrome 116+">
     <img src="https://img.shields.io/badge/Manifest-V3-6d7772" alt="Manifest V3">
     <img src="https://img.shields.io/badge/数据-本机保存-173e34" alt="数据本机保存">
@@ -56,7 +56,7 @@
 
 目前通过 Chrome 的「加载已解压的扩展程序」安装，尚未上架 Chrome 应用商店。
 
-1. 前往 [Releases](https://github.com/zkilxx/x-xiuxian/releases/latest)，下载 **`x-xiuxian-v0.1.19.zip`** 并解压。
+1. 前往 [Releases](https://github.com/zkilxx/x-xiuxian/releases/latest)，下载 **`x-xiuxian-v0.1.20.zip`** 并解压。
 2. 在 Chrome 地址栏输入 `chrome://extensions`，开启右上角「开发者模式」。
 3. 点击「加载已解压的扩展程序」，选择解压后的 **X修仙** 文件夹，里面应有 `manifest.json`。
 4. 打开并登录 [X](https://x.com)，刷新页面，即可看到悬浮洞府。
@@ -165,6 +165,10 @@ Release 同时提供 `SHA256SUMS.txt`，供校验安装包。
 
 账号验证截图、个人数据记录和旧设计候选仅保留在本地，不包含在源码或安装包中。
 
+## 面板恢复
+
+面板会确认脚本与样式已就绪，并定期检查连接。内嵌窗口变空白或样式丢失时，会显示同色恢复界面并自动重连，最多连续重试 3 次；失败后可点击「重新连接」。展开状态、位置和账号记录会保留。若扩展已重载或更新，原 X 标签页会显示刷新提示，由你点击后刷新，避免自动打断草稿。
+
 ## 使用限制
 
 - 面向桌面 Chrome 116 或更新版本开发；插件当前界面为中文。
@@ -183,7 +187,7 @@ Release 同时提供 `SHA256SUMS.txt`，供校验安装包。
 npm test                # 数据、发布事件与后台流程测试
 npm run check           # 重新构建，检查脚本、清单与资源
 npm run preview         # http://127.0.0.1:4178/demo.html
-npm run package         # release/x-xiuxian-v0.1.19.zip
+npm run package         # release/x-xiuxian-v0.1.20.zip
 ```
 
 当前 **47 项回归测试通过**，覆盖账号隔离、事件去重、成功 / 失败发布、工作室日期与曝光回填、发推回推对账、延迟保护、官方向下校正、奖励净增、粉丝净变、后台任务、提醒、分享摘要与分享来源校验。测试使用模拟响应，不代表每次 X 页面更新后的线上行为均已实测。
@@ -196,6 +200,7 @@ npx playwright install chromium
 npm run docs:screenshots
 npm run test:ui          # 独立临时浏览器加载真实扩展，模拟 X / GitHub 响应
 npm run test:share       # 真实扩展与模拟编辑栏：文字、PNG、草稿保护、不自动发布
+npm run test:panel       # 白板恢复、样式丢失、重试上限、页面恢复与扩展重载
 ```
 
 Playwright 用于文档截图和界面回归验证，不参与扩展运行。真实扩展验证覆盖项目入口、自动与手动检查、新版本提示、离线错误、缓存复用、收起展开和窄窗口布局。截图脚本不会读取现有 Chrome 配置或主动删除本地文件。
